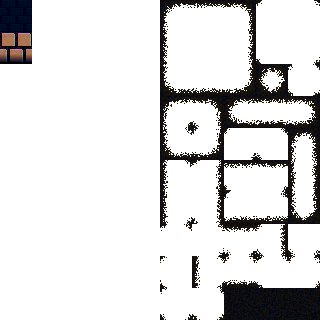
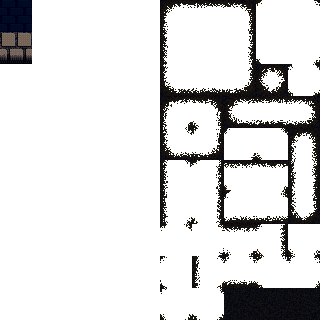
Improve some things

Changed region(s): [[0.0, 0.0938, 0.125, 0.2188]]

diff --git a/src/game.rs b/src/game.rs
@@ -122,7 +122,7 @@ impl Player {
                 self.walking_index = (self.walking_index + 1) % 4;
             }
         } else {
-            self.walking_counter = 0.0;
+            self.walking_counter = 0.20;
             self.walking_index = 1;
             self.direction = 0; // reset direction to down when idle
         }
